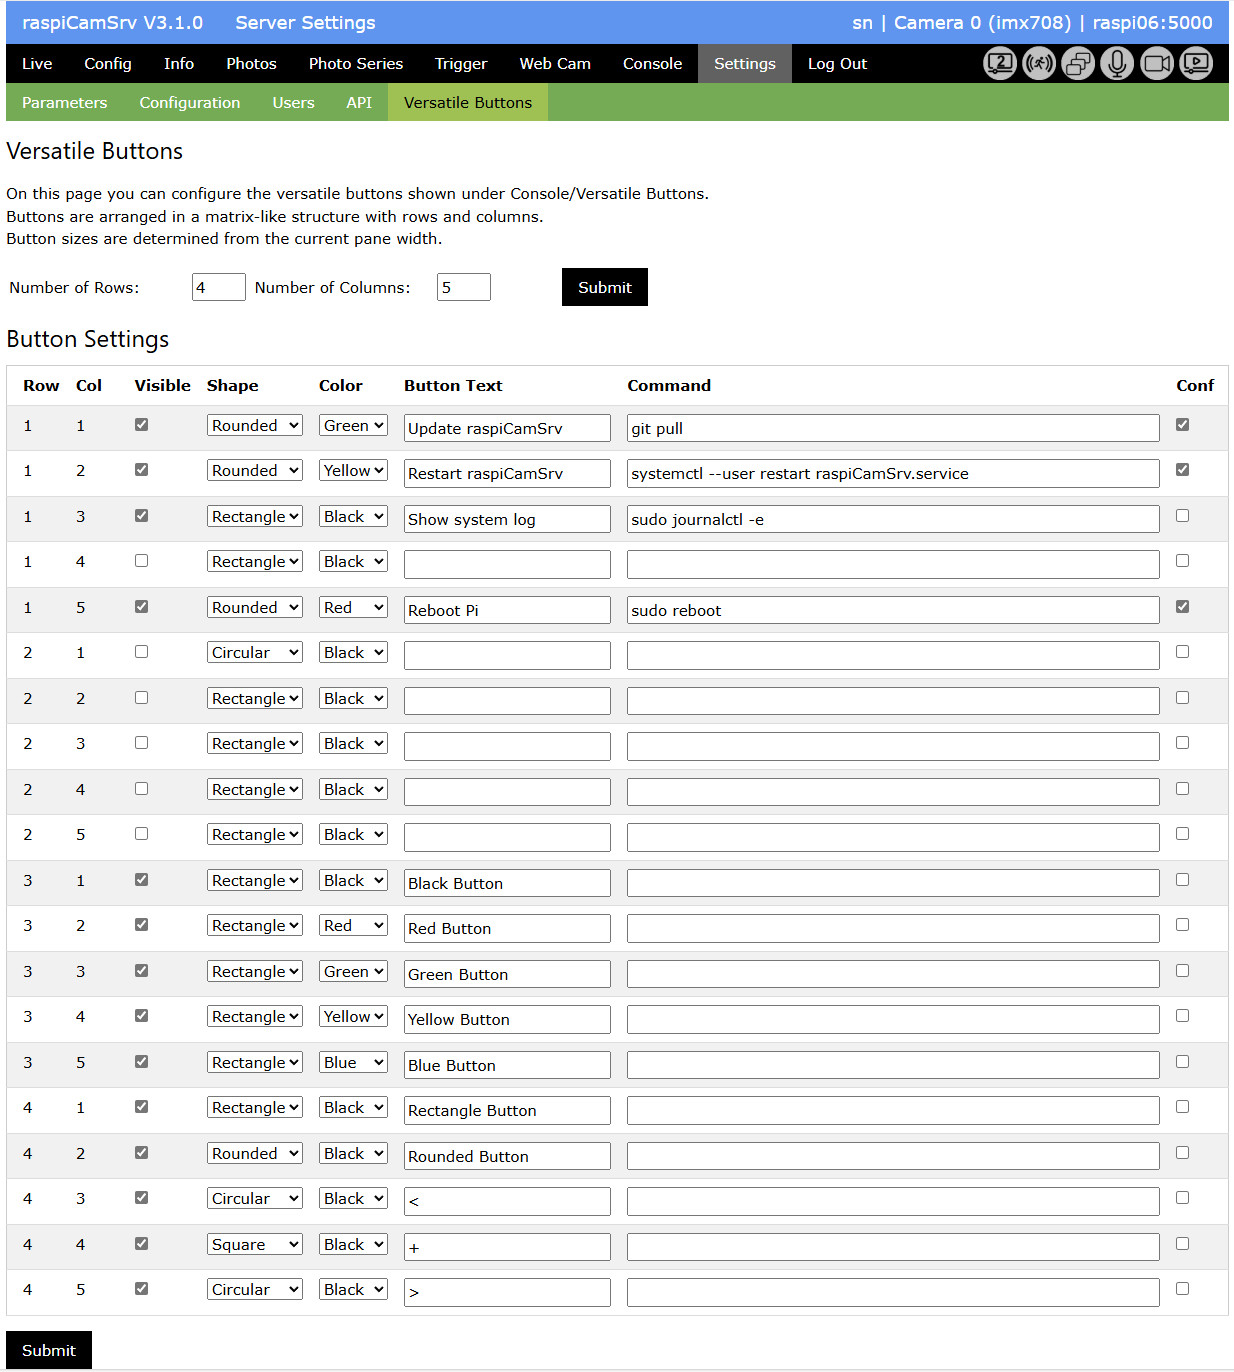
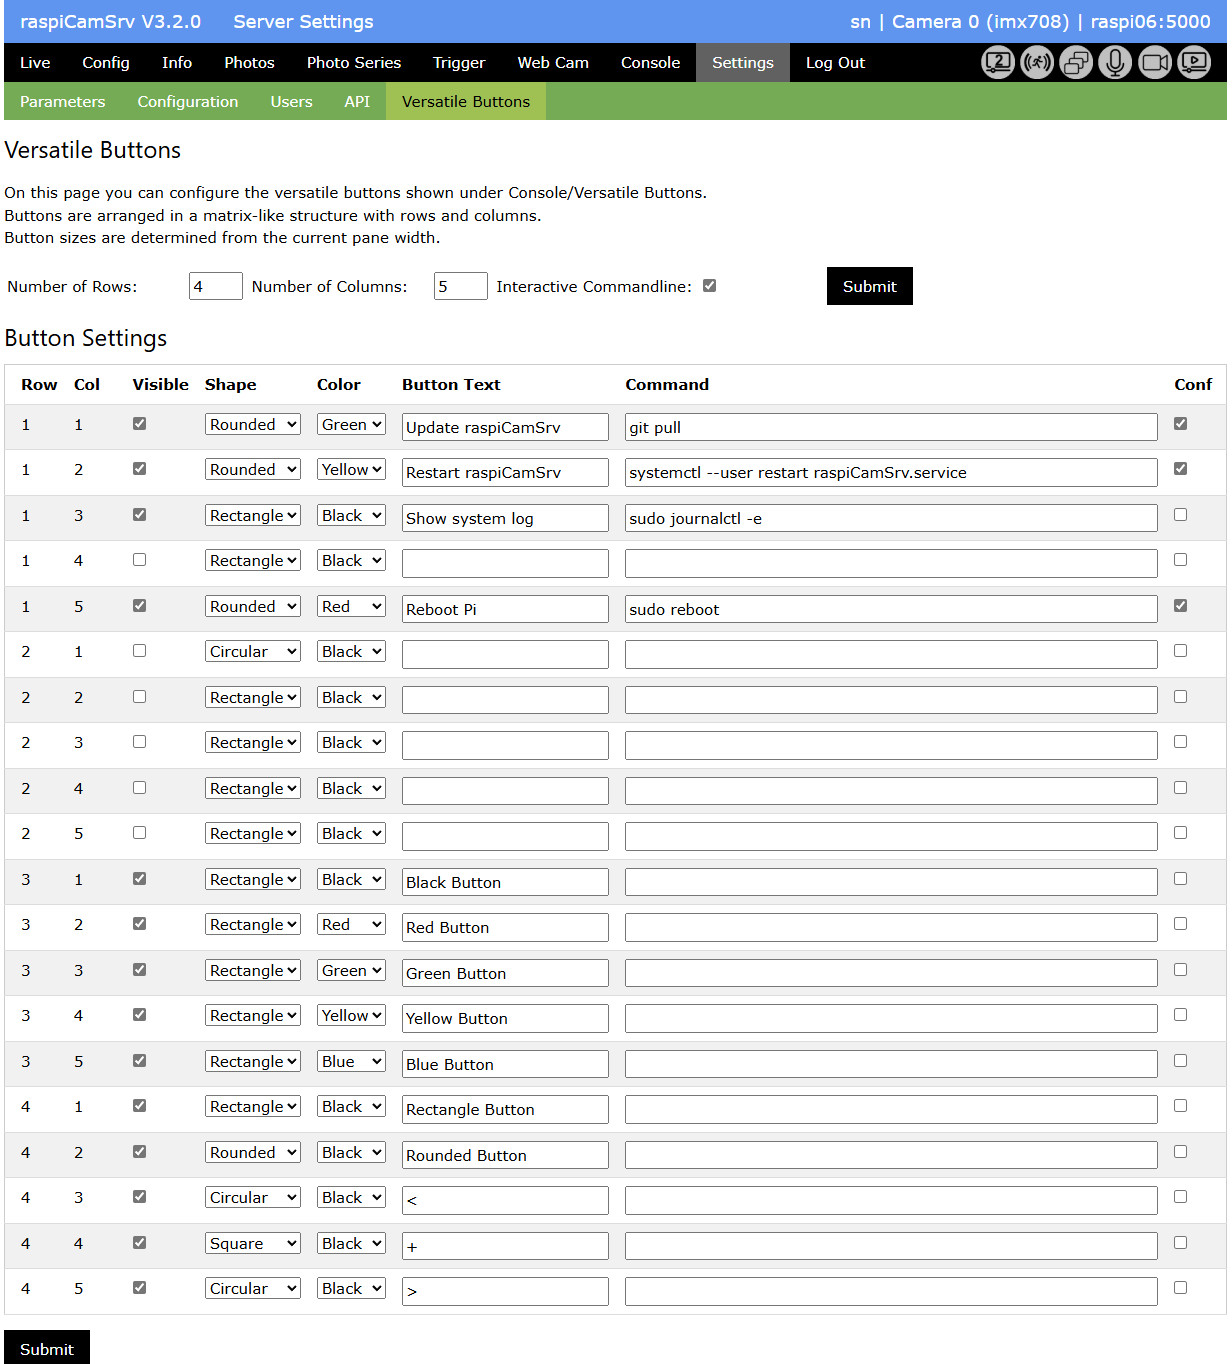
V3.2.0 - Online Help

diff --git a/raspiCamSrv/templates/settings/main.html b/raspiCamSrv/templates/settings/main.html
@@ -47,6 +47,14 @@
         <button class="w3-bar-item w3-button settingsmenu" id="settingsvbuttonsbtn"
             onclick="openSettingsTab('settingsvbuttons', 'settingsvbuttonsbtn')">Versatile Buttons</button>
         {% endif %}
+        <div class="w3-bar-item w3-right" style="padding-top:2px; padding-bottom:0">
+            <div class="w3-tooltip">
+                <span style="position:absolute;right:45px;top:5px;width:200px" class="w3-text w3-tag">Online help from GitHub
+                </span>
+                <img src="{{ url_for('static', filename='onlineHelp.png') }}" class="w3-image" id="onlinehelp" alt="Online help"
+                    style="height:34px; width:34px" onclick="onlineHelp()">
+            </div>
+        </div>
     </div>
     {% if sc.lastSettingsTab == "settingsparams" %}
     <div id="settingsparams" class="settingsgroup">
@@ -672,12 +680,24 @@
                             <input type="number" id="vbuttonscols" name="vbuttonscols" min="0" max="9" step="1"
                             value="{{ sc.vButtonsCols }}">
                         </td>
+                        <td style="width: 17%">
+                            Interactive Commandline:
+                        </td>
+                        <td style="width:5%">
+                            {% if sc.vButtonHasCommandLine == True %}
+                            <input type="checkbox" id="vbuttonhascommandline"
+                                name="vbuttonhascommandline" value="1" checked>
+                            {% else %}
+                            <input type="checkbox" id="vbuttonhascommandline"
+                                name="vbuttonhascommandline" value="1">
+                            {% endif %}
+                        </td>
                         <td style="width: 5%">
                         </td>
                         <td style="width: 20%">
                             <input class="w3-button w3-black" type="submit" value="Submit">
                         </td>
-                        <td style="width: 35%">
+                        <td style="width: 13%">
                         </td>
                     </tr>
                 </form>
@@ -880,6 +900,9 @@
         }
         function doSubmit(form) {
             document.getElementById(form).submit();
+        }
+        function onlineHelp() {
+            window.open("https://github.com/signag/raspi-cam-srv/blob/main/docs/Settings.md");
         }
     </script>
 

diff --git a/raspiCamSrv/templates/console/console.html b/raspiCamSrv/templates/console/console.html
@@ -9,6 +9,16 @@
     <!-- Controller menue -->
     <button class="w3-bar-item w3-button consolemenu w3-light-green" id="buttonsbtn"
         onclick="openConsoleTab('versbuttons', 'buttonsbtn')">Versatile Buttons</button>
+    <div class="w3-bar-item w3-right" style="padding-top:2px; padding-bottom:0">
+        <div class="w3-tooltip">
+            <span style="position:absolute;right:45px;top:5px;width:200px"
+                class="w3-text w3-tag">Online help from GitHub
+            </span>
+            <img src="{{ url_for('static', filename='onlineHelp.png') }}" class="w3-image" id="onlinehelp"
+                alt="Online help" style="height:34px; width:34px"
+                onclick="onlineHelp()">
+        </div>
+    </div>
 </div>
 <div id="versbuttons" class="consolegroup">
     <h4>Versatile Buttons</h4>
@@ -92,8 +102,16 @@
                 <b>Command:</b>
             </td>
             <td style="width:80%">
+                {% if sc.vButtonHasCommandLine == False %}
                 {% if sc.vButtonCommand is not none %}
                 {{ sc.vButtonCommand }}
+                {% endif %}
+                {% else %}
+                <form id="commandlineform" method="post" action="{{ url_for('console.execCommandline') }}">
+                    <input style="width: 100%" type="text" id="commandline" name="commandline" 
+                        onchange="doSubmit('commandlineform')"
+                        value="{{ sc.vButtonCommand }}">
+                </form>
                 {% endif %}
             </td>
         </tr>
@@ -172,7 +190,7 @@
         document.getElementById(form).submit();
     }
     function confirmExecution(form, command, needsConfirm) {
-        console.log("confirmExecution - needsConfirm=", needsConfirm);
+        //console.log("confirmExecution - needsConfirm=", needsConfirm);
         if (needsConfirm == "True") {
             if (confirm("Do you want to execute the following command?\n" + command)) {
                 document.getElementById(form).method = "post";
@@ -182,6 +200,8 @@
             }
         }
     }
-
+    function onlineHelp(){
+        window.open("https://github.com/signag/raspi-cam-srv/blob/main/docs/Console.md");
+    }
 </script>
 {% endblock %}

diff --git a/raspiCamSrv/templates/config/main.html b/raspiCamSrv/templates/config/main.html
@@ -58,7 +58,7 @@
         {% endif %}
         <div class="w3-bar-item w3-right" style="padding-top:2px; padding-bottom:0">
             <form method="post" id="syncaspectratiofrm" action="{{ url_for('config.syncAspectRatio') }}">
-                <table>
+                <table style="position:absolute;right:100px">
                     <tr>
                         <td>
                             <input id="activecfgtab" name="activecfgtab" value="-" style="display: none">
@@ -80,7 +80,14 @@
                     </tr>
                 </table>
             </form>
-        </div>        
+            <div class="w3-tooltip">
+                <span style="position:absolute;right:45px;top:5px;width:200px" class="w3-text w3-tag">Online help from
+                    GitHub
+                </span>
+                <img src="{{ url_for('static', filename='onlineHelp.png') }}" class="w3-image" id="onlinehelp" alt="Online help"
+                    style="height:34px; width:34px" onclick="onlineHelp()">
+            </div>
+        </div>
     </div>
     <!-- Tuning configuration -->
     {% if sc.lastConfigTab == "cfgtuning" %}
@@ -1755,18 +1762,21 @@
             //https://tympanus.net/codrops/2015/09/15/styling-customizing-file-inputs-smart-way/
             var upldlbl = document.getElementById("uploadtuningfilelbl");
             labelVal = upldlbl.innerHTML;
-            console.log("upldlbl.innerHTML:", labelVal);
+            //console.log("upldlbl.innerHTML:", labelVal);
             var fileName = '';
             if (this.files && this.files.length > 1)
                 fileName = (this.getAttribute('data-multiple-caption') || '').replace('{count}', this.files.length) + ' Files selected';
             else
                 fileName = e.target.value.split('\\').pop();
 
-            console.log("fileName:", fileName);
+            //console.log("fileName:", fileName);
             if (fileName)
                 upldlbl.innerHTML = fileName;
             else
                 upldlbl.innerHTML = labelVal;
         })
+        function onlineHelp() {
+            window.open("https://github.com/signag/raspi-cam-srv/blob/main/docs/Configuration.md");
+        }
     </script>
 {% endblock %}

diff --git a/raspiCamSrv/templates/info/info.html b/raspiCamSrv/templates/info/info.html
@@ -12,6 +12,15 @@
         {% for mode in sm %}
         <button class="w3-bar-item w3-button infomenu" id="{{ mode.tabButtonId }}" onclick="openInfoTab('{{ mode.tabId }}', '{{ mode.tabButtonId }}')">{{ mode.tabTitle}}</button>
         {% endfor%}
+        <div class="w3-bar-item w3-right" style="padding-top:2px; padding-bottom:0">
+            <div class="w3-tooltip">
+                <span style="position:absolute;right:45px;top:5px;width:200px" class="w3-text w3-tag">Online help from
+                    GitHub
+                </span>
+                <img src="{{ url_for('static', filename='onlineHelp.png') }}" class="w3-image" id="onlinehelp" alt="Online help"
+                    style="height:34px; width:34px" onclick="onlineHelp()">
+            </div>
+        </div>
     </div>
     <div id="cameras" class="infogroup">
         <h4>Raspberry Pi</h4>
@@ -355,6 +364,9 @@
                 b[i].classList = "w3-bar-item w3-button infomenu";
             }
             document.getElementById(infoTabButton).classList = "w3-bar-item w3-button infomenu w3-light-green";
+        }
+        function onlineHelp() {
+            window.open("https://github.com/signag/raspi-cam-srv/blob/main/docs/Information.md");
         }
     </script>
 {% endblock %}

diff --git a/raspiCamSrv/templates/home/index.html b/raspiCamSrv/templates/home/index.html
@@ -57,6 +57,15 @@ RaspiCamSrv's Live page
                 {% else %}
                 <button class="w3-bar-item w3-button ctrlmenu" id="imagebtn" onclick="openCtrlTab('image','imagebtn')">Image</button>
                 {% endif %}
+                <div class="w3-bar-item w3-right" style="padding-top:2px; padding-bottom:0">
+                    <div class="w3-tooltip">
+                        <span style="position:absolute;right:45px;top:5px;width:200px" class="w3-text w3-tag">Online help from
+                            GitHub
+                        </span>
+                        <img src="{{ url_for('static', filename='onlineHelp.png') }}" class="w3-image" id="onlinehelp" alt="Online help"
+                            style="height:34px; width:34px" onclick="onlineHelp()">
+                    </div>
+                </div>
             </div>
             {% if sc.lastLiveTab == "focus" %}
             <div id="focus" class="w3-container controlgroup">
@@ -2358,6 +2367,9 @@ RaspiCamSrv's Live page
                 liveCanvasCtx = null;
             }
             
+        }
+        function onlineHelp() {
+            window.open("https://github.com/signag/raspi-cam-srv/blob/main/docs/LiveScreen.md");
         }
     </script>
     <style>

diff --git a/raspiCamSrv/templates/trigger/trigger.html b/raspiCamSrv/templates/trigger/trigger.html
@@ -49,6 +49,14 @@
         <button class="w3-bar-item w3-button triggermenu" id="trgcalendarbtn"
             onclick="openTriggerTab('trgcalendar', 'trgcalendarbtn')">Calendar</button>
         {% endif %}
+        <div class="w3-bar-item w3-right" style="padding-top:2px; padding-bottom:0">
+            <div class="w3-tooltip">
+                <span style="position:absolute;right:45px;top:5px;width:200px" class="w3-text w3-tag">Online help from GitHub
+                </span>
+                <img src="{{ url_for('static', filename='onlineHelp.png') }}" class="w3-image" id="onlinehelp" alt="Online help"
+                    style="height:34px; width:34px" onclick="onlineHelp()">
+            </div>
+        </div>
     </div>
     {% if sc.lastTriggerTab == "trgcontrol" %}
     <div id="trgcontrol" class="triggergroup">
@@ -1236,6 +1244,9 @@
                 document.getElementById("notifysavepwd").disabled = true;
                 document.getElementById("notifypwdpath").disabled = true;
             }
+        }
+        function onlineHelp() {
+            window.open("https://github.com/signag/raspi-cam-srv/blob/main/docs/Trigger.md");
         }
     </script>
 {% endblock %}

diff --git a/raspiCamSrv/templates/photoseries/main.html b/raspiCamSrv/templates/photoseries/main.html
@@ -35,6 +35,14 @@
         <button class="w3-bar-item w3-button photoseriesmenu" id="tlfocusstackbtn"
             onclick="openPhotoseriesTab('tlfocusstack', 'tlfocusstackbtn')">Focus Stack</button>
         {% endif %}
+        <div class="w3-bar-item w3-right" style="padding-top:2px; padding-bottom:0">
+            <div class="w3-tooltip">
+                <span style="position:absolute;right:45px;top:5px;width:200px" class="w3-text w3-tag">Online help from GitHub
+                </span>
+                <img src="{{ url_for('static', filename='onlineHelp.png') }}" class="w3-image" id="onlinehelp" alt="Online help"
+                    style="height:34px; width:34px" onclick="onlineHelp()">
+            </div>
+        </div>
     </div>
     {% if sc.lastPhotoSeriesTab == "series" %}
     <div id="tlseries" class="photoseriesgroup">
@@ -1518,6 +1526,9 @@
             } else {
                 document.getElementById(form).method = "get";
             }
+        }
+        function onlineHelp() {
+            window.open("https://github.com/signag/raspi-cam-srv/blob/main/docs/PhotoSeries.md");
         }
     </script>
 {% endblock %}

diff --git a/raspiCamSrv/templates/webcam/webcam.html b/raspiCamSrv/templates/webcam/webcam.html
@@ -5,7 +5,18 @@
 {% endblock %}
 
 {% block content %}
-<h2>Web Cam</h2>
+    <div class="w3-bar w3-green">
+        <div class="w3-bar-item w3-right" style="padding-top:2px; padding-bottom:0">
+            <div class="w3-tooltip">
+                <span style="position:absolute;right:45px;top:5px;width:200px" class="w3-text w3-tag">Online help from
+                    GitHub
+                </span>
+                <img src="{{ url_for('static', filename='onlineHelp.png') }}" class="w3-image" id="onlinehelp"
+                    alt="Online help" style="height:34px; width:34px" onclick="onlineHelp()">
+            </div>
+        </div>
+    </div>
+    <h2>Web Cam</h2>
     <table>
         <tr>
             <td style="width: 50%;">
@@ -150,5 +161,9 @@
             </td>
         </tr>
     </table>
-
+    <script>
+        function onlineHelp() {
+            window.open("https://github.com/signag/raspi-cam-srv/blob/main/docs/Webcam.md");
+        }
+    </script>
 {% endblock %}

diff --git a/raspiCamSrv/templates/images/main.html b/raspiCamSrv/templates/images/main.html
@@ -5,6 +5,17 @@
 {% endblock %}
 
 {% block content %}
+<div class="w3-bar w3-green">
+    <div class="w3-bar-item w3-right" style="padding-top:2px; padding-bottom:0">
+        <div class="w3-tooltip">
+            <span style="position:absolute;right:45px;top:5px;width:200px" class="w3-text w3-tag">Online help from
+                GitHub
+            </span>
+            <img src="{{ url_for('static', filename='onlineHelp.png') }}" class="w3-image" id="onlinehelp"
+                alt="Online help" style="height:34px; width:34px" onclick="onlineHelp()">
+        </div>
+    </div>
+</div>
 <div class="w3-row">
     <!-- Controls -->
     <p style="height: 15px; margin:0"></p>
@@ -188,7 +199,9 @@
             document.getElementById(form).method = "get";
         }
     }
-
+        function onlineHelp() {
+            window.open("https://github.com/signag/raspi-cam-srv/blob/main/docs/PhotoViewer.md");
+        }
 </script>
 
 {% endblock %}

diff --git a/raspiCamSrv/console.py b/raspiCamSrv/console.py
@@ -23,6 +23,9 @@ def console():
     g.version = version
     cfg = CameraCfg()
     sc = cfg.serverConfig
+    if sc.vButtonHasCommandLine == True:
+        if sc.vButtonCommand is None:
+            sc.vButtonCommand = ""
     sc.curMenu = "console"
     return render_template("console/console.html", props=props, sc=sc)
 
@@ -48,6 +51,43 @@ def execute(row:None, col=None):
         c = int(col)
         btn = sc.vButtons[r][c]
         cmd = btn.buttonExec
+        sc.vButtonCommand = cmd
+        args = cmd.rsplit(" ")
+        sc.vButtonArgs = args
+        
+        msg = "Command successfully executed."
+        result = None
+        if cmd != "":
+            try:
+                result = subprocess.run(args, capture_output=True, text=True, check=False)            
+            except CalledProcessError as e:
+                msg = f"Command executed with error: {e}."
+            except Exception as e:
+                msg = f"Command executed with error: {e}."
+            if result:
+                sc.vButtonReturncode = result.returncode
+                sc.vButtonStdout = result.stdout
+                sc.vButtonStderr = result.stderr
+        else:
+            msg = "No command executed"
+        
+        if msg != "":
+            flash(msg)
+    return render_template("console/console.html", props=props, sc=sc)
+
+@bp.route("/execCommandline", methods=("GET", "POST"))
+@login_required
+def execCommandline():
+    logger.debug("In execCommandline")
+    cam = Camera().cam
+    props = cam.camera_properties
+    g.hostname = request.host
+    g.version = version
+    cfg = CameraCfg()
+    sc = cfg.serverConfig
+    if request.method == "POST":
+        msg = ""
+        cmd = request.form["commandline"]
         sc.vButtonCommand = cmd
         args = cmd.rsplit(" ")
         sc.vButtonArgs = args

diff --git a/raspiCamSrv/camCfg.py b/raspiCamSrv/camCfg.py
@@ -2397,6 +2397,7 @@ class ServerConfig():
         self._vButtonReturncode = None
         self._vButtonStdout = None
         self._vButtonStderr = None
+        self._vButtonHasCommandLine = False
         
         # Check access of microphone
         self.checkMicrophone()
@@ -3310,6 +3311,14 @@ class ServerConfig():
     @vButtonStderr.setter
     def vButtonStderr(self, value: str):
         self._vButtonStderr = value
+
+    @property
+    def vButtonHasCommandLine(self) -> bool:
+        return self._vButtonHasCommandLine
+
+    @vButtonHasCommandLine.setter
+    def vButtonHasCommandLine(self, value: bool):
+        self._vButtonHasCommandLine = value
 
     @property
     def API_active(self) -> bool:

diff --git a/raspiCamSrv/settings.py b/raspiCamSrv/settings.py
@@ -576,6 +576,7 @@ def vbutton_dimensions():
                 sc.vButtonsCols = vButtonsCols
                 sc.vButtonsRows = vButtonsRows
                 sc.vButtons = vButtons
+                sc.vButtonHasCommandLine = not request.form.get("vbuttonhascommandline") is None
         if msg != "":
             flash(msg)
     return render_template("settings/main.html", sc=sc, cp=cp, cs=cs, los=los)
